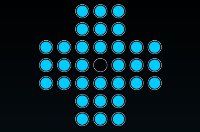
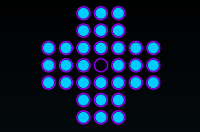
.

Changed region(s): [[0.18, 0.0303, 0.81, 0.9697]]

diff --git a/old/jogos.html b/old/jogos.html
@@ -64,10 +64,14 @@
 				&nbsp;
 			   <tr>
 			   <td><a href="jogos/2048/2048.html"><img border="3" src="img/2048.png" width="100" align="middle" alt="2048"></a></td> 
+			   <td width="10"></td> 
+			   <td><a href="jogos/resta1/resta1.html"><img border="3" src="img/resta1.png" width="100" align="middle" alt="Resta1"></a></td> 
 			   </tr>	
 				
 			 <tr>
 			   <td align="center">2048</td> 			  		   		   
+			   <td width="10"></td> 
+			   <td align="center">RESTA 1</td> 			  		   		   
 			</tr>			
 				
 			

diff --git a/old/novidades.html b/old/novidades.html
@@ -64,6 +64,8 @@
 			
 			<div class="menu" align="left"> <br> 
 			   
+			   <font color="#DD0"> (19/01/2019) </font> Adicionado novo Jogo <font color="#0DE">RESTA 1</font> e atualizado Filmes Família.
+			   <br><br>
 			   <font color="#DD0"> (18/01/2019) </font> App migrado para novo servidor, atualize para <font color="#0DE">Ver 1.2</font>. 
 			   <br><br>	
 			   <font color="#DD0"> (17/01/2019) </font> Adicionado Câmeras de Imagem de <font color="#0DE">Belo Horizonte</font>. 

diff --git a/old/geral.html b/old/geral.html
@@ -46,8 +46,7 @@
 					<li>&nbsp; <br> &nbsp; </li>
 					<li>&nbsp; <br> &nbsp; </li>
 					<li>&nbsp; <br> &nbsp; </li>
-					<li>&nbsp; <br> &nbsp; </li>			
-					<li onclick="location.href='jogos/resta1/resta1.html'"></li>
+					<li>&nbsp; <br> &nbsp; </li>							
 					
                 </ul>
             </div>
